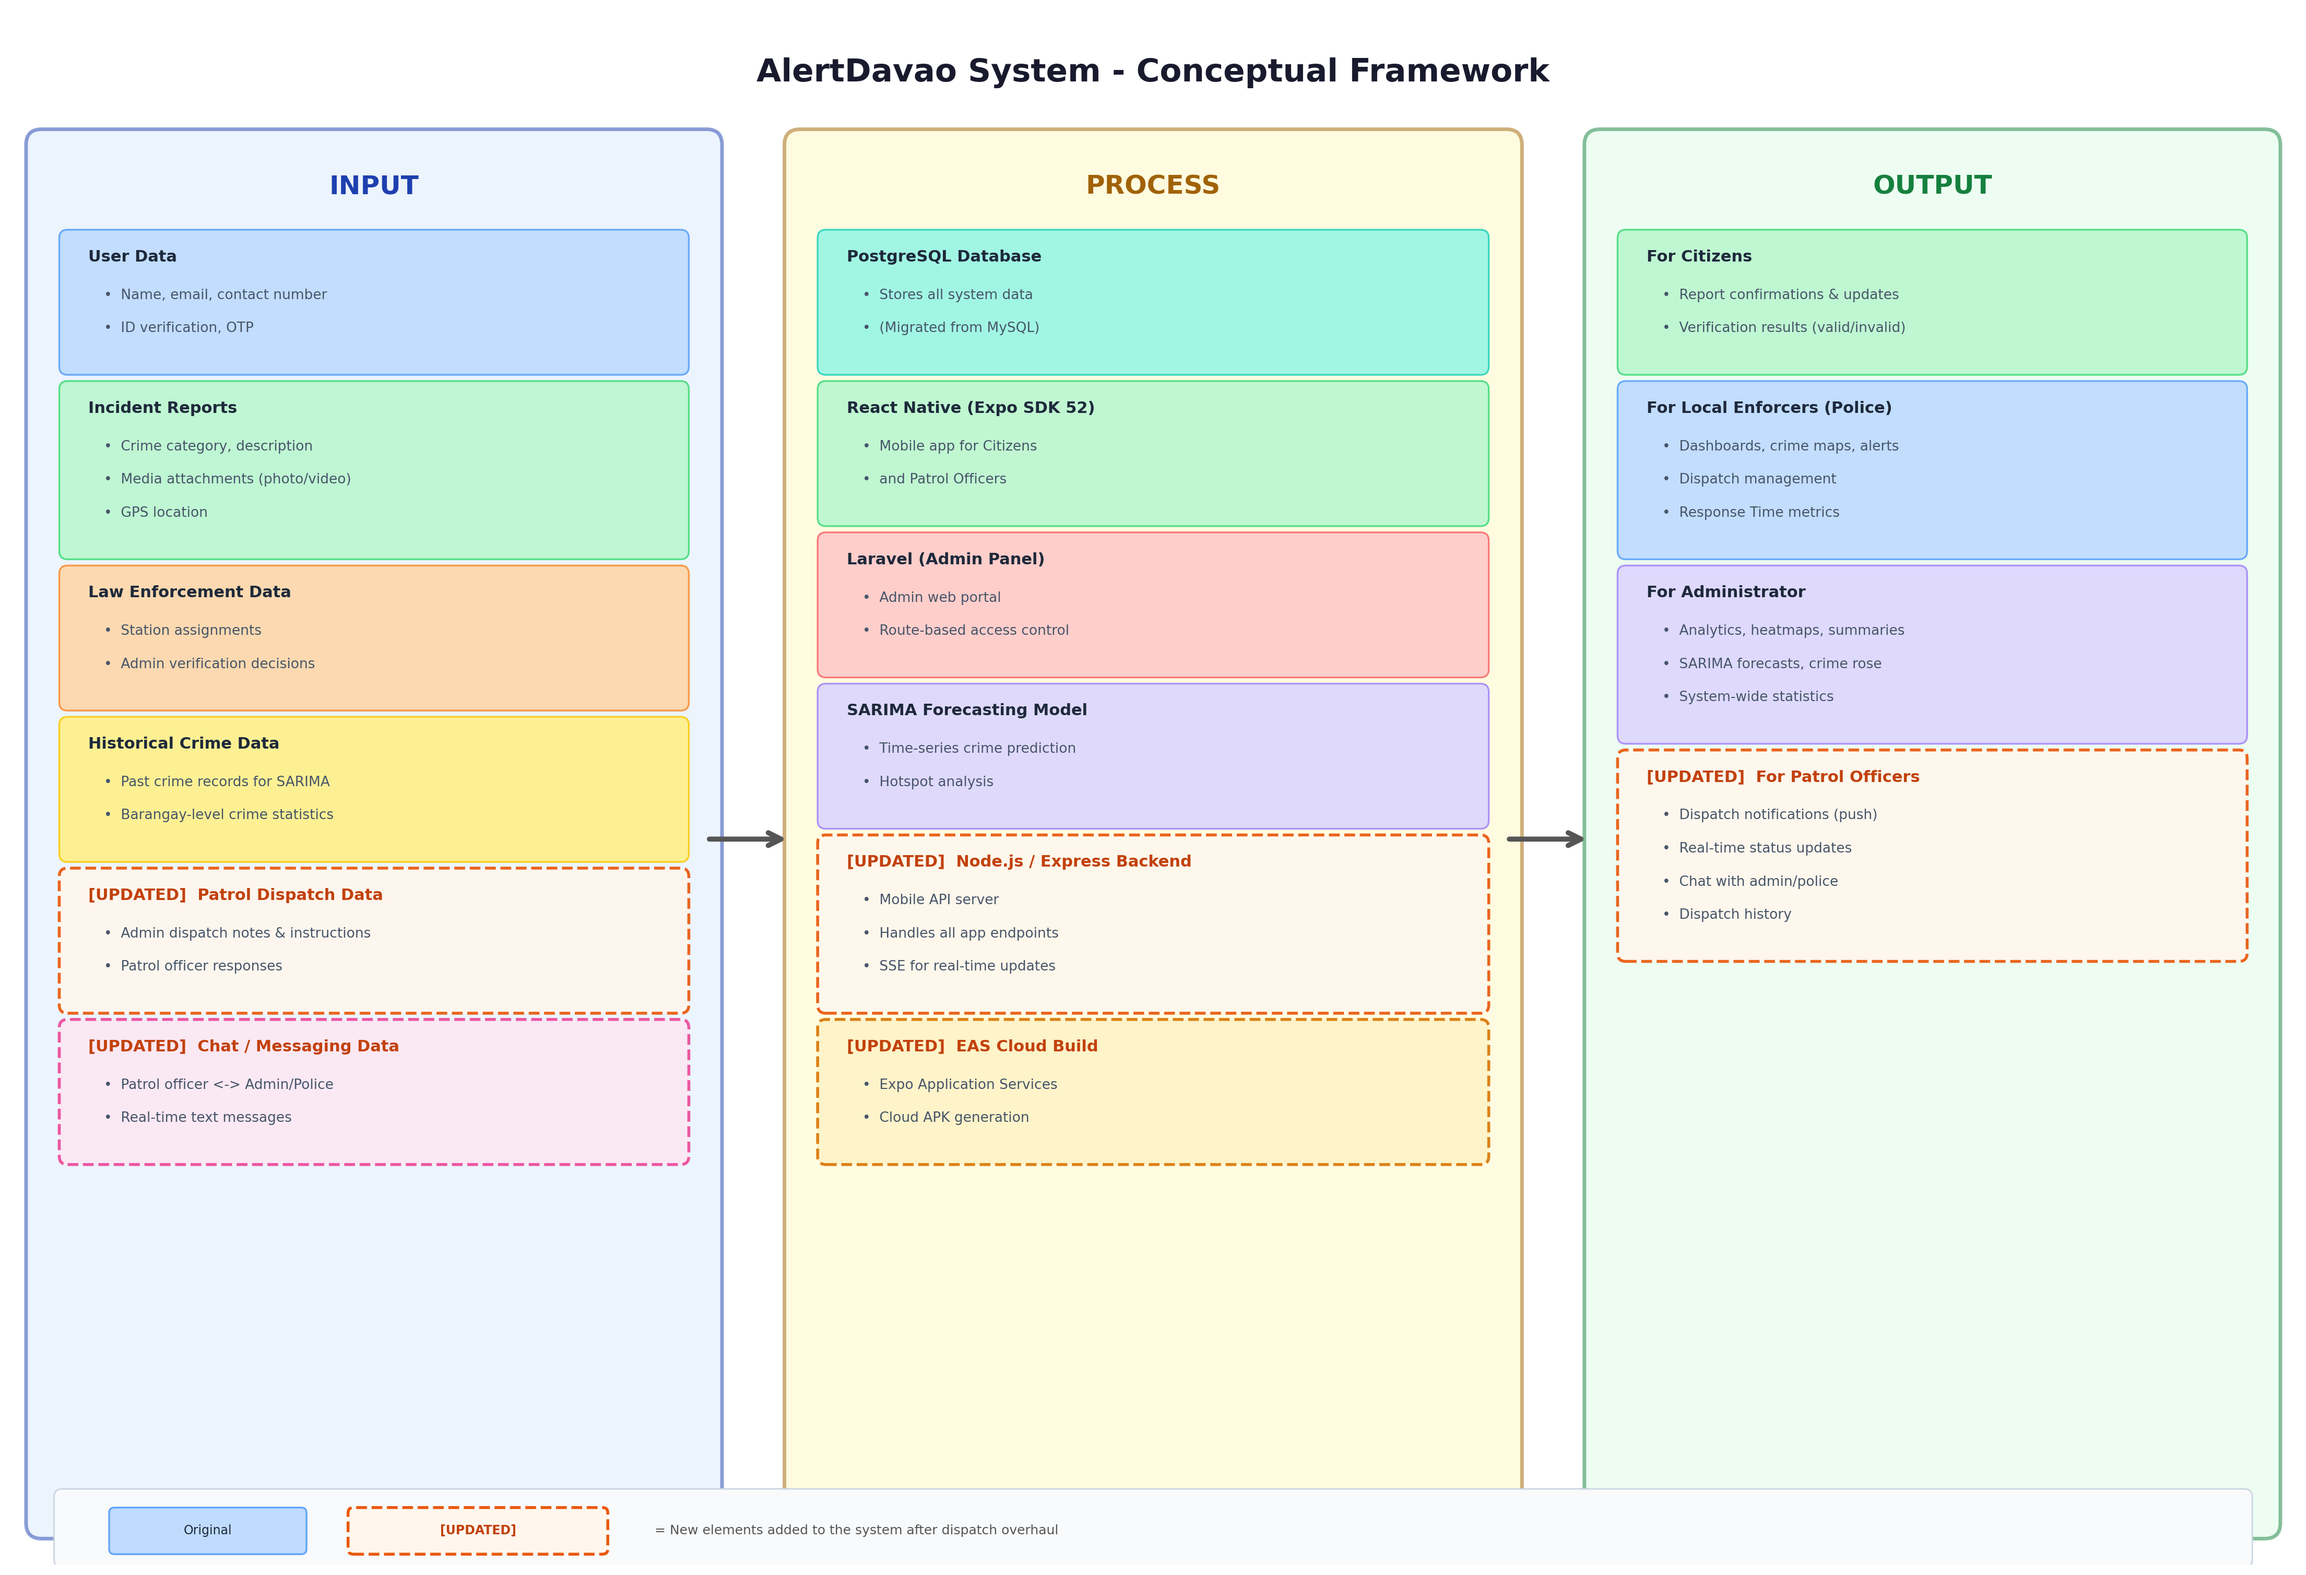
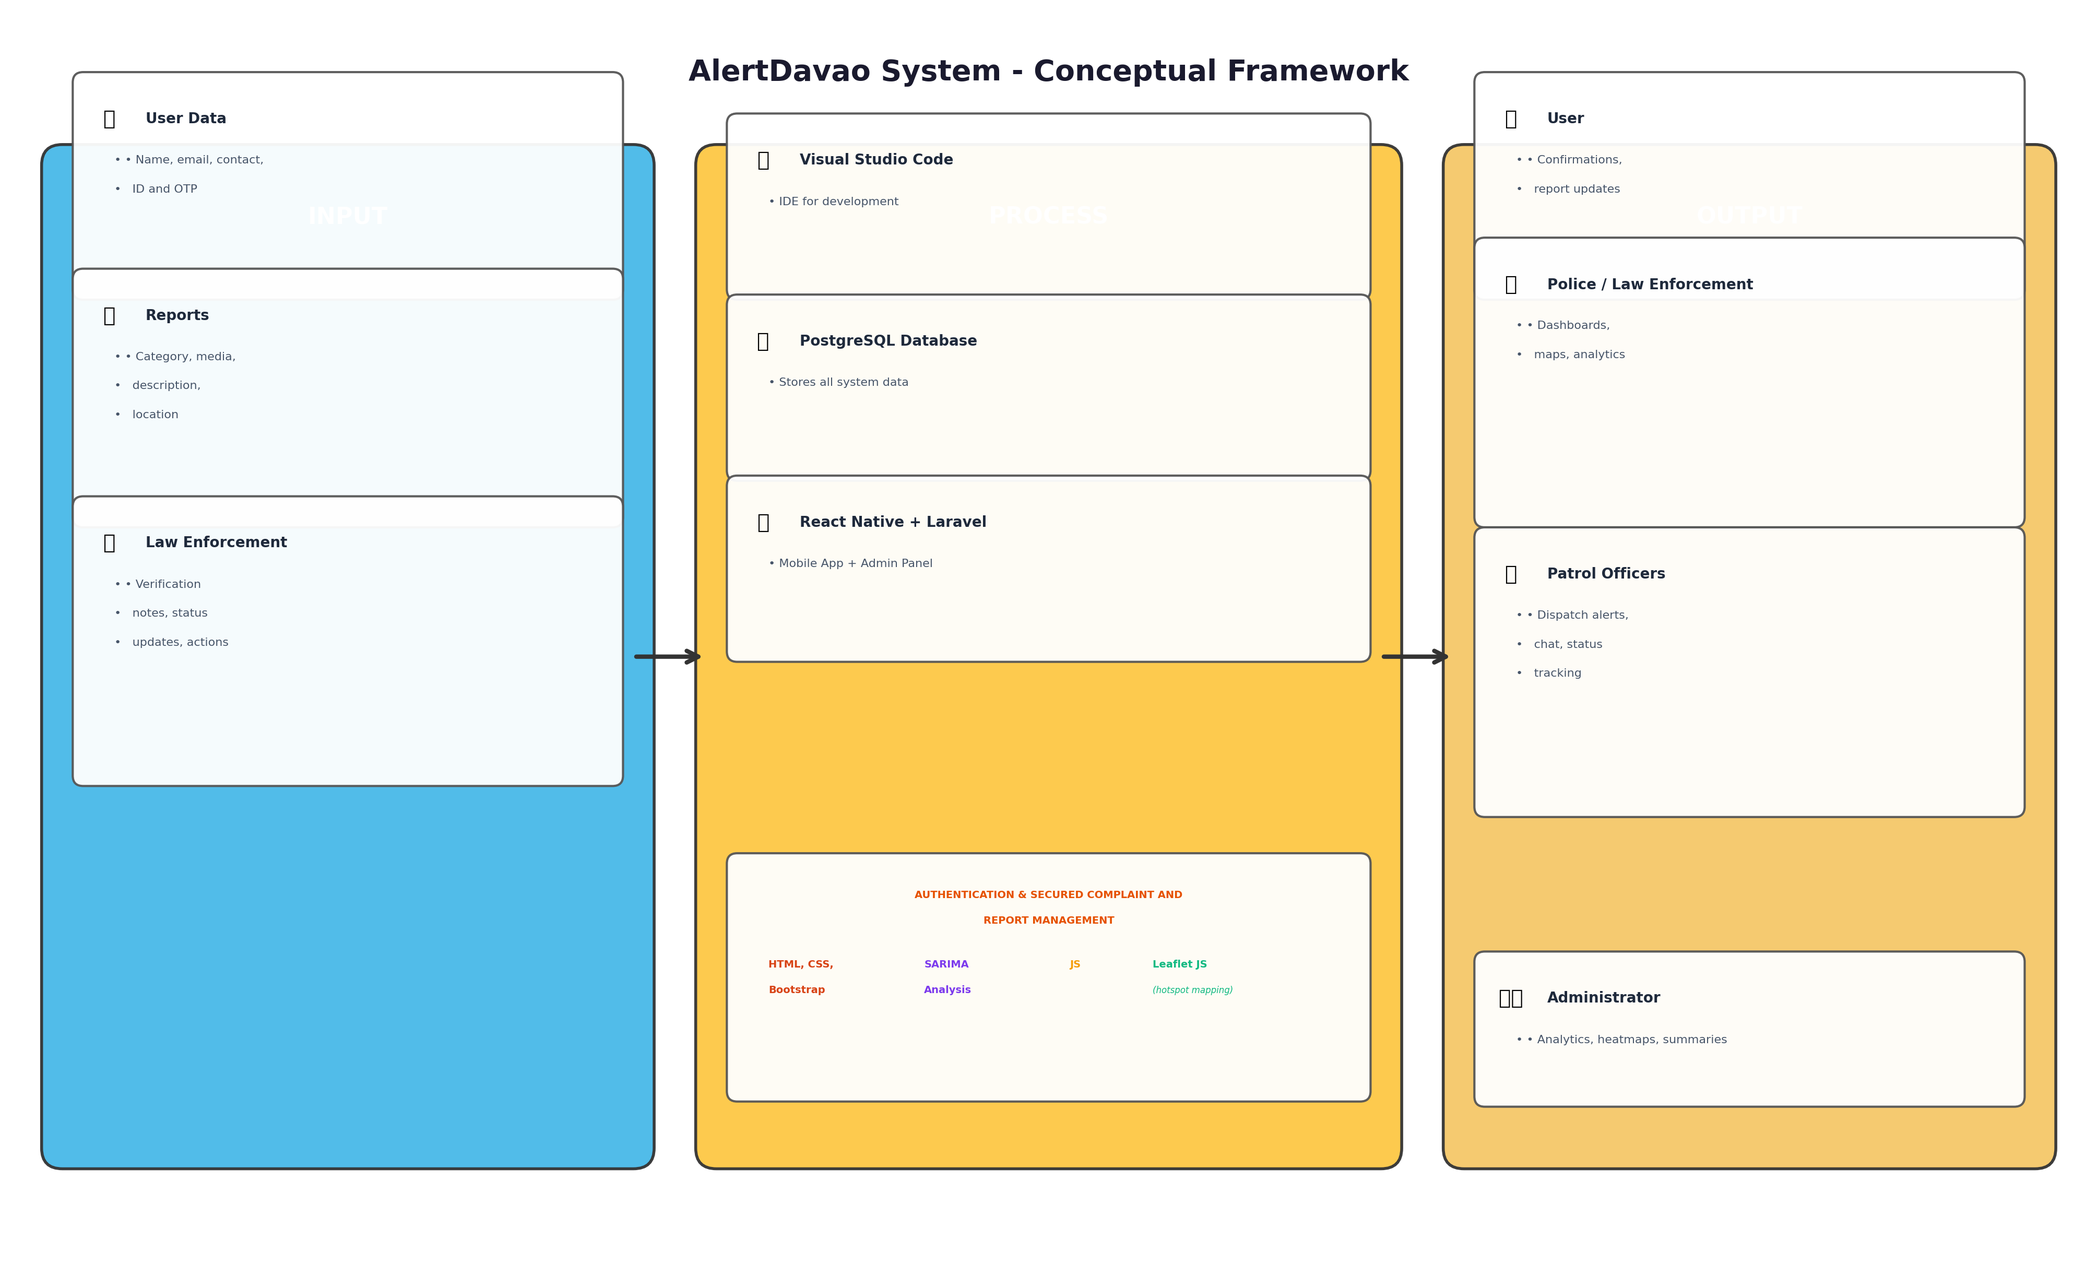
docs: redesign conceptual framework diagram + update ERD for patrol officers
- Conceptual framework: Cleaner design matching reference image with INPUT-PROCESS-OUTPUT layout
  * INPUT: User Data, Reports, Law Enforcement
  * PROCESS: Visual Studio Code, PostgreSQL, React Native + Laravel, tech stack (HTML/CSS, SARIMA, JS, Leaflet)
  * OUTPUT: User, Police/Law Enforcement, Patrol Officers, Administrator
- ERD: Clarify patrol officers now in users_public table (user_role='patrol_officer')
- Use case diagram: Already includes patrol officer actor and use cases

diff --git a/generate_diagrams.py b/generate_diagrams.py
@@ -12,188 +12,139 @@ os.makedirs(output_dir, exist_ok=True)
 
 # ═══════════════════════════════════════════════════════════════════
 #  1. CONCEPTUAL FRAMEWORK  (Input -> Process -> Output)
-#
-#  ORIGINAL elements kept exactly. NEW additions marked [UPDATED]
+#     Redesigned to match the simpler, cleaner style from the reference image
 # ═══════════════════════════════════════════════════════════════════
 def draw_conceptual_framework():
-    fig, ax = plt.subplots(1, 1, figsize=(22, 15))
-    ax.set_xlim(0, 22)
-    ax.set_ylim(0, 15)
+    fig, ax = plt.subplots(1, 1, figsize=(20, 12))
+    ax.set_xlim(0, 20)
+    ax.set_ylim(0, 12)
     ax.axis('off')
     fig.patch.set_facecolor('#ffffff')
 
     # Title
-    ax.text(11, 14.4, 'AlertDavao System - Conceptual Framework', fontsize=22, fontweight='bold',
+    ax.text(10, 11.4, 'AlertDavao System - Conceptual Framework', fontsize=20, fontweight='bold',
             ha='center', va='center', color='#1a1a2e')
 
-    # ─── Column backgrounds ───
+    # ─── Column backgrounds (INPUT - PROCESS - OUTPUT) ───
     cols = [
-        (0.3, 0.4, 6.4, 13.3, '#dbeafe', 'INPUT', '#1e40af'),
-        (7.6, 0.4, 6.8, 13.3, '#fef9c3', 'PROCESS', '#a16207'),
-        (15.3, 0.4, 6.4, 13.3, '#dcfce7', 'OUTPUT', '#15803d'),
+        (0.5, 1.0, 5.5, 9.5, '#48b9e8', 'INPUT', '#ffffff'),
+        (6.8, 1.0, 6.4, 9.5, '#fdc844', 'PROCESS', '#ffffff'),
+        (14.0, 1.0, 5.5, 9.5, '#f5c868', 'OUTPUT', '#ffffff'),
     ]
     for x, y, w, h, color, label, lcolor in cols:
-        rect = FancyBboxPatch((x, y), w, h, boxstyle="round,pad=0.15", facecolor=color,
-                               edgecolor=lcolor, linewidth=2.5, alpha=0.5)
+        rect = FancyBboxPatch((x, y), w, h, boxstyle="round,pad=0.2", facecolor=color,
+                               edgecolor='#333', linewidth=2.0, alpha=0.95)
         ax.add_patch(rect)
-        ax.text(x + w/2, y + h - 0.4, label, fontsize=18, fontweight='bold',
+        ax.text(x + w/2, y + h - 0.5, label, fontsize=16, fontweight='bold',
                 ha='center', va='center', color=lcolor)
 
     # ─── Arrows between columns ───
-    for sx, ex in [(6.7, 7.5), (14.4, 15.2)]:
-        ax.annotate('', xy=(ex, 7.0), xytext=(sx, 7.0),
-                    arrowprops=dict(arrowstyle='->', color='#555', lw=3.5, mutation_scale=22))
+    for sx, ex in [(6.0, 6.7), (13.2, 13.9)]:
+        ax.annotate('', xy=(ex, 5.75), xytext=(sx, 5.75),
+                    arrowprops=dict(arrowstyle='->', color='#333', lw=3, mutation_scale=20))
 
-    # ─── Helper to draw a box ───
-    def draw_item_box(ax, x, y, w, title, bullets, box_color, border_color, is_new=False):
-        line_h = 0.32
-        h = 0.45 + len(bullets) * line_h + 0.15
-        rect = FancyBboxPatch((x, y - h), w, h, boxstyle="round,pad=0.08",
-                               facecolor=box_color, edgecolor=border_color,
-                               linewidth=2.0 if is_new else 1.2, alpha=0.92,
-                               linestyle='--' if is_new else '-')
+    # ─── Helper to draw a content box ───
+    def draw_content_box(ax, x, y, w, h, icon, title, bullets, box_color, text_color='#1e293b'):
+        rect = FancyBboxPatch((x, y), w, h, boxstyle="round,pad=0.1",
+                               facecolor=box_color, edgecolor='#555',
+                               linewidth=1.5, alpha=0.95)
         ax.add_patch(rect)
-        prefix = '[UPDATED]  ' if is_new else ''
-        title_color = '#c2410c' if is_new else '#1e293b'
-        ax.text(x + 0.2, y - 0.18, prefix + title, fontsize=11, fontweight='bold',
-                va='center', color=title_color)
+        # Icon/emoji
+        ax.text(x + 0.25, y + h - 0.35, icon, fontsize=14, va='center', ha='center')
+        # Title
+        ax.text(x + 0.6, y + h - 0.35, title, fontsize=10, fontweight='bold',
+                va='center', ha='left', color=text_color)
+        # Bullets
+        line_h = 0.28
         for i, b in enumerate(bullets):
-            ax.text(x + 0.35, y - 0.55 - i * line_h, '\u2022  ' + b, fontsize=9.5,
-                    va='center', color='#475569')
-        return h + 0.22
+            ax.text(x + 0.3, y + h - 0.75 - i * line_h, '• ' + b, fontsize=8,
+                    va='center', ha='left', color='#475569')
 
     # ═══ INPUT COLUMN ═══
-    ix = 0.55
-    iw = 5.9
-    iy = 12.8
+    ix = 0.7
+    iw = 5.1
+    iy = 9.3
 
-    # ORIGINAL items
-    gap = draw_item_box(ax, ix, iy, iw, 'User Data',
-                        ['Name, email, contact number',
-                         'ID verification, OTP'],
-                        '#bfdbfe', '#60a5fa')
-    iy -= gap
+    draw_content_box(ax, ix, iy, iw, 2.0, '👥', 'User Data',
+                     ['• Name, email, contact,', '  ID and OTP'],
+                     '#ffffff', '#1e293b')
+    iy -= 2.2
 
-    gap = draw_item_box(ax, ix, iy, iw, 'Incident Reports',
-                        ['Crime category, description',
-                         'Media attachments (photo/video)',
-                         'GPS location'],
-                        '#bbf7d0', '#4ade80')
-    iy -= gap
+    draw_content_box(ax, ix, iy, iw, 2.3, '📋', 'Reports',
+                     ['• Category, media,', '  description,', '  location'],
+                     '#ffffff', '#1e293b')
+    iy -= 2.5
 
-    gap = draw_item_box(ax, ix, iy, iw, 'Law Enforcement Data',
-                        ['Station assignments',
-                         'Admin verification decisions'],
-                        '#fed7aa', '#fb923c')
-    iy -= gap
-
-    gap = draw_item_box(ax, ix, iy, iw, 'Historical Crime Data',
-                        ['Past crime records for SARIMA',
-                         'Barangay-level crime statistics'],
-                        '#fef08a', '#facc15')
-    iy -= gap
-
-    # NEW items
-    gap = draw_item_box(ax, ix, iy, iw, 'Patrol Dispatch Data',
-                        ['Admin dispatch notes & instructions',
-                         'Patrol officer responses'],
-                        '#fff7ed', '#ea580c', is_new=True)
-    iy -= gap
-
-    gap = draw_item_box(ax, ix, iy, iw, 'Chat / Messaging Data',
-                        ['Patrol officer <-> Admin/Police',
-                         'Real-time text messages'],
-                        '#fce7f3', '#ec4899', is_new=True)
+    draw_content_box(ax, ix, iy, iw, 2.6, '👮', 'Law Enforcement',
+                     ['• Verification', '  notes, status', '  updates, actions'],
+                     '#ffffff', '#1e293b')
 
     # ═══ PROCESS COLUMN ═══
-    px = 7.85
-    pw = 6.3
-    py = 12.8
+    px = 7.0
+    pw = 6.0
+    py = 9.3
 
-    # ORIGINAL items (updated names where DB changed)
-    gap = draw_item_box(ax, px, py, pw, 'PostgreSQL Database',
-                        ['Stores all system data',
-                         '(Migrated from MySQL)'],
-                        '#99f6e4', '#2dd4bf')
-    py -= gap
+    # Main tech stack
+    draw_content_box(ax, px, py, pw, 1.6, '💻', 'Visual Studio Code',
+                     ['IDE for development'],
+                     '#ffffff', '#1e293b')
+    py -= 1.75
 
-    gap = draw_item_box(ax, px, py, pw, 'React Native (Expo SDK 52)',
-                        ['Mobile app for Citizens',
-                         'and Patrol Officers'],
-                        '#bbf7d0', '#4ade80')
-    py -= gap
+    draw_content_box(ax, px, py, pw, 1.6, '🗄', 'PostgreSQL Database',
+                     ['Stores all system data'],
+                     '#ffffff', '#1e293b')
+    py -= 1.75
 
-    gap = draw_item_box(ax, px, py, pw, 'Laravel (Admin Panel)',
-                        ['Admin web portal',
-                         'Route-based access control'],
-                        '#fecaca', '#f87171')
-    py -= gap
+    draw_content_box(ax, px, py, pw, 1.6, '📱', 'React Native + Laravel',
+                     ['Mobile App + Admin Panel'],
+                     '#ffffff', '#1e293b')
+    py -= 1.95
 
-    gap = draw_item_box(ax, px, py, pw, 'SARIMA Forecasting Model',
-                        ['Time-series crime prediction',
-                         'Hotspot analysis'],
-                        '#ddd6fe', '#a78bfa')
-    py -= gap
-
-    # NEW process items
-    gap = draw_item_box(ax, px, py, pw, 'Node.js / Express Backend',
-                        ['Mobile API server',
-                         'Handles all app endpoints',
-                         'SSE for real-time updates'],
-                        '#fff7ed', '#ea580c', is_new=True)
-    py -= gap
-
-    gap = draw_item_box(ax, px, py, pw, 'EAS Cloud Build',
-                        ['Expo Application Services',
-                         'Cloud APK generation'],
-                        '#fef3c7', '#d97706', is_new=True)
+    # Tech stack icons/labels box
+    tech_y = py - 0.1
+    ax.add_patch(FancyBboxPatch((px, tech_y - 2.2), pw, 2.2, boxstyle="round,pad=0.1",
+                 facecolor='#fff', edgecolor='#555', linewidth=1.5, alpha=0.95))
+    ax.text(px + pw/2, tech_y - 0.3, 'AUTHENTICATION & SECURED COMPLAINT AND', fontsize=7,
+            ha='center', va='center', color='#e65100', fontweight='bold')
+    ax.text(px + pw/2, tech_y - 0.55, 'REPORT MANAGEMENT', fontsize=7,
+            ha='center', va='center', color='#e65100', fontweight='bold')
+    
+    # Tech stack labels
+    tech_line_y = tech_y - 1.0
+    ax.text(px + 0.3, tech_line_y, 'HTML, CSS,', fontsize=7, ha='left', color='#d84315', fontweight='bold')
+    ax.text(px + 0.3, tech_line_y - 0.25, 'Bootstrap', fontsize=7, ha='left', color='#d84315', fontweight='bold')
+    
+    ax.text(px + 1.8, tech_line_y, 'SARIMA', fontsize=7, ha='left', color='#7c3aed', fontweight='bold')
+    ax.text(px + 1.8, tech_line_y - 0.25, 'Analysis', fontsize=7, ha='left', color='#7c3aed', fontweight='bold')
+    
+    ax.text(px + 3.2, tech_line_y, 'JS', fontsize=7, ha='left', color='#f59e0b', fontweight='bold')
+    
+    ax.text(px + 4.0, tech_line_y, 'Leaflet JS', fontsize=7, ha='left', color='#10b981', fontweight='bold')
+    ax.text(px + 4.0, tech_line_y - 0.25, '(hotspot mapping)', fontsize=6, ha='left', color='#10b981', style='italic')
 
     # ═══ OUTPUT COLUMN ═══
-    ox = 15.55
-    ow = 5.9
-    oy = 12.8
+    ox = 14.2
+    ow = 5.1
+    oy = 9.3
 
-    # ORIGINAL output items
-    gap = draw_item_box(ax, ox, oy, ow, 'For Citizens',
-                        ['Report confirmations & updates',
-                         'Verification results (valid/invalid)'],
-                        '#bbf7d0', '#4ade80')
-    oy -= gap
+    draw_content_box(ax, ox, oy, ow, 2.0, '👤', 'User',
+                     ['• Confirmations,', '  report updates'],
+                     '#ffffff', '#1e293b')
+    oy -= 2.2
 
-    gap = draw_item_box(ax, ox, oy, ow, 'For Local Enforcers (Police)',
-                        ['Dashboards, crime maps, alerts',
-                         'Dispatch management',
-                         'Response Time metrics'],
-                        '#bfdbfe', '#60a5fa')
-    oy -= gap
+    draw_content_box(ax, ox, oy, ow, 2.6, '👮', 'Police / Law Enforcement',
+                     ['• Dashboards,', '  maps, analytics'],
+                     '#ffffff', '#1e293b')
+    oy -= 2.8
 
-    gap = draw_item_box(ax, ox, oy, ow, 'For Administrator',
-                        ['Analytics, heatmaps, summaries',
-                         'SARIMA forecasts, crime rose',
-                         'System-wide statistics'],
-                        '#ddd6fe', '#a78bfa')
-    oy -= gap
+    draw_content_box(ax, ox, oy, ow, 2.6, '🚓', 'Patrol Officers',
+                     ['• Dispatch alerts,', '  chat, status', '  tracking'],
+                     '#ffffff', '#1e293b')
+    oy -= 2.8
 
-    # NEW output items
-    gap = draw_item_box(ax, ox, oy, ow, 'For Patrol Officers',
-                        ['Dispatch notifications (push)',
-                         'Real-time status updates',
-                         'Chat with admin/police',
-                         'Dispatch history'],
-                        '#fff7ed', '#ea580c', is_new=True)
-
-    # ─── Legend ───
-    ax.add_patch(FancyBboxPatch((0.5, 0.05), 21, 0.6, boxstyle="round,pad=0.08",
-                 facecolor='#f8fafc', edgecolor='#cbd5e1', linewidth=1))
-    ax.add_patch(FancyBboxPatch((1.0, 0.15), 1.8, 0.35, boxstyle="round,pad=0.05",
-                 facecolor='#bfdbfe', edgecolor='#60a5fa', linewidth=1.2))
-    ax.text(1.9, 0.33, 'Original', fontsize=8.5, ha='center', va='center', color='#1e293b')
-    ax.add_patch(FancyBboxPatch((3.3, 0.15), 2.4, 0.35, boxstyle="round,pad=0.05",
-                 facecolor='#fff7ed', edgecolor='#ea580c', linewidth=2, linestyle='--'))
-    ax.text(4.5, 0.33, '[UPDATED]', fontsize=8.5, ha='center', va='center',
-            color='#c2410c', fontweight='bold')
-    ax.text(6.2, 0.33, '= New elements added to the system after dispatch overhaul',
-            fontsize=9, va='center', color='#555')
+    draw_content_box(ax, ox, oy, ow, 1.3, '👨💼', 'Administrator',
+                     ['• Analytics, heatmaps, summaries'],
+                     '#ffffff', '#1e293b')
 
     plt.tight_layout(pad=0.4)
     path = os.path.join(output_dir, '1_conceptual_framework_updated.png')
@@ -390,14 +341,12 @@ def draw_erd():
         'coordinates',
     ], '#66bb6a', width=3.6, pk_indices=[0], fk_indices=[1])
 
-    # patrol_officer — REMOVED (merged into users_public)
-    draw_table(ax, 24.1, 17.5, 'patrol_officer  [REMOVED]', [
-        'id',
-        'user_id',
-        'station_id',
-    ], '#bdbdbd', width=3.6, pk_indices=[0], fk_indices=[1, 2])
-    ax.plot([24.1, 27.7], [17.5, 16.35], color='#ef5350', linewidth=2.5, alpha=0.6)
-    ax.plot([24.1, 27.7], [16.35, 17.5], color='#ef5350', linewidth=2.5, alpha=0.6)
+    # NOTE: patrol_officer table was removed - patrol officers are now
+    # regular users_public entries with user_role='patrol_officer'
+    ax.text(24.1, 17.5, '📝 Patrol Officers = users_public', fontsize=8.5, va='center',
+            color='#43a047', fontweight='bold', style='italic')
+    ax.text(24.1, 17.0, '    where user_role = \'patrol_officer\'', fontsize=7.5, va='center',
+            color='#666', style='italic')
 
     # ══════════════════════════════════════════════════════
     #  GROUP 4: DISPATCH  [NEW]
